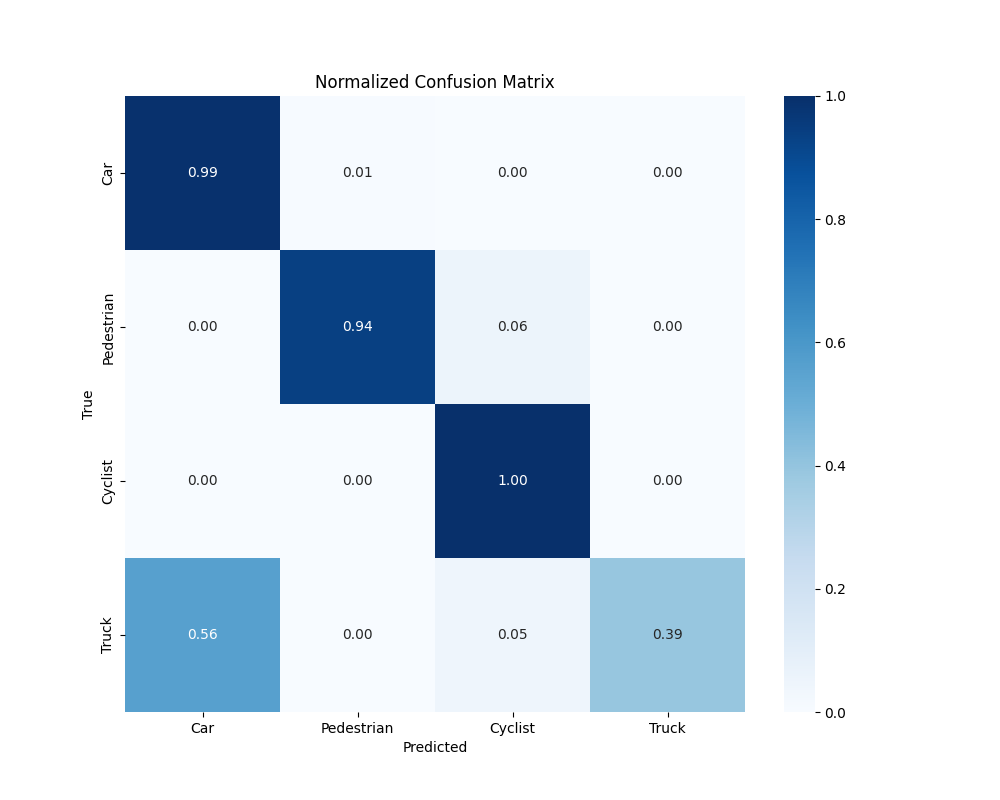
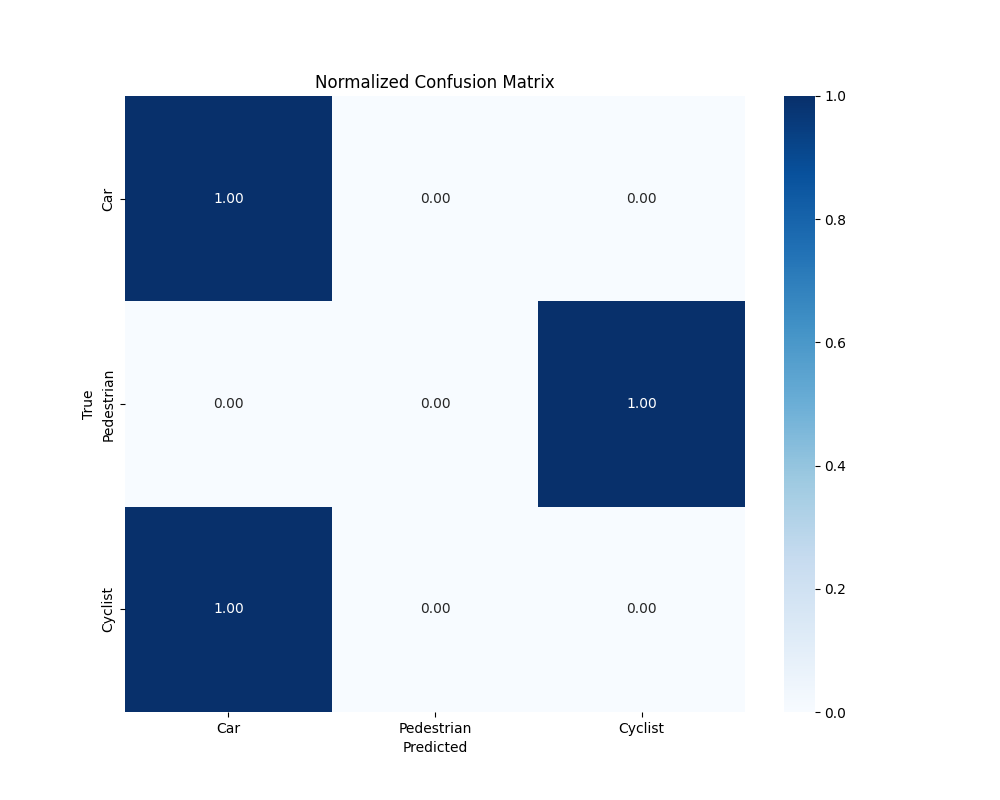
we can train without floor

diff --git a/lidar3d_detection_ws/train/models/evaluate.py b/lidar3d_detection_ws/train/models/evaluate.py
@@ -25,76 +25,95 @@ sys.path.append(parent_dir)
 # Import from our other modules
 from data_processing.preprocessing import load_config, read_bin_file, read_label_file, create_bev_image
 from data_processing.preproccesing_0 import convert_labels_to_yolo_format, PointCloudProcessor
+from data_processing.augmentation import create_range_adapted_bev_image
 
 def evaluate_model(model_path, bin_dir, label_dir, config_path, output_dir, conf_threshold=0.25, iou_threshold=0.5, max_samples=10):
     """
-    Evaluate a trained model on bin files
+    Evaluate a trained YOLO model on BEV images
     
     Args:
         model_path: Path to trained model weights
         bin_dir: Directory containing bin files
         label_dir: Directory containing label files
-        config_path: Path to config file
+        config_path: Path to preprocessing config file
         output_dir: Output directory for evaluation results
         conf_threshold: Confidence threshold for detections
-        iou_threshold: IoU threshold for NMS
-        max_samples: Maximum number of samples to evaluate and visualize
+        iou_threshold: IoU threshold for NMS and TP calculation
+        max_samples: Maximum number of samples to evaluate
         
     Returns:
-        Dictionary with evaluation metrics
+        Dictionary of evaluation metrics
     """
     print("\n===== EVALUATING MODEL =====")
-    print(f"Using model: {model_path}")
-    print(f"Using bin directory: {bin_dir}")
-    print(f"Using label directory: {label_dir}")
+    print(f"Model: {model_path}")
+    print(f"Bin directory: {bin_dir}")
+    print(f"Label directory: {label_dir}")
+    print(f"Config path: {config_path}")
+    print(f"Output directory: {output_dir}")
     print(f"Confidence threshold: {conf_threshold}")
+    print(f"IoU threshold: {iou_threshold}")
+    print(f"Max samples: {max_samples}")
     
     # Create output directories
     os.makedirs(output_dir, exist_ok=True)
-    visualization_dir = os.path.join(output_dir, "evaluation_visualization")
+    visualization_dir = os.path.join(output_dir, "visualization")
     os.makedirs(visualization_dir, exist_ok=True)
-    
-    # Initialize processor
-    processor = PointCloudProcessor(config_path=config_path)
     
     # Load model
     model = YOLO(model_path)
     
-    # Get all bin files
-    bin_files = sorted([f for f in os.listdir(bin_dir) if f.endswith('.bin')])
-    if not bin_files:
-        raise ValueError(f"No bin files found in {bin_dir}")
+    # Initialize processor
+    processor = PointCloudProcessor(config_path)
     
-    # Randomly select samples if there are more than max_samples
-    if len(bin_files) > max_samples:
-        bin_files = random.sample(bin_files, max_samples)
+    # Get list of bin files
+    bin_files = sorted([os.path.join(bin_dir, f) for f in os.listdir(bin_dir) if f.endswith('.bin')])
     
-    print(f"Evaluating on {len(bin_files)} samples")
+    # Limit number of samples if needed
+    if max_samples > 0:
+        bin_files = bin_files[:max_samples]
     
-    # Store class statistics
+    # Initialize statistics
     class_stats = defaultdict(lambda: {'TP': 0, 'FP': 0, 'FN': 0})
-    
-    # Lists to store IoU values for each class
-    class_ious = {class_name: [] for class_name in processor.class_names}
+    class_ious = defaultdict(list)
     
     # Process each bin file
-    for i, bin_filename in enumerate(tqdm(bin_files, desc="Evaluating")):
-        bin_file = os.path.join(bin_dir, bin_filename)
-        
-        # Get corresponding label file
-        label_name = os.path.splitext(bin_filename)[0] + ".txt"
-        label_file = os.path.join(label_dir, label_name)
-        
-        if not os.path.exists(label_file):
-            print(f"Warning: Label file {label_file} not found, skipping {bin_file}")
-            continue
-        
-        # Process the point cloud
+    for i, bin_file in enumerate(tqdm(bin_files, desc="Evaluating")):
         try:
-            # Process point cloud to get BEV image and YOLO labels
-            bev_image, yolo_labels_str = processor.process_point_cloud(
-                bin_file, label_file, None, None
-            )
+            # Get corresponding label file
+            base_name = os.path.splitext(os.path.basename(bin_file))[0]
+            label_file = os.path.join(label_dir, f"{base_name}.txt")
+            
+            if not os.path.exists(label_file):
+                print(f"Warning: Label file not found for {bin_file}, skipping")
+                continue
+            
+            # Read point cloud and labels
+            points = read_bin_file(bin_file)
+            labels = read_label_file(label_file)
+            
+            # Create clean BEV image (without boxes) for inference
+            bev_image = processor.create_bev_image(points)
+            
+            # Create YOLO format labels for ground truth
+            yolo_labels = []
+            yolo_labels_str = []
+            
+            for obj in labels:
+                if obj['type'] == 'DontCare':
+                    continue
+                
+                # Transform 3D box to BEV
+                corners_bev, center_bev = processor.transform_3d_box_to_bev(
+                    obj['dimensions'], obj['location'], obj['rotation_y']
+                )
+                
+                # Create YOLO label
+                yolo_label_str = processor.create_yolo_label(
+                    corners_bev, obj['type'], bev_image.shape[:2]
+                )
+                
+                if yolo_label_str:
+                    yolo_labels_str.append(yolo_label_str)
             
             # Skip if no labels
             if not yolo_labels_str:
@@ -126,7 +145,7 @@ def evaluate_model(model_path, bin_dir, label_dir, config_path, output_dir, conf
                     gt_boxes.append([x1, y1, x2, y2])
                     gt_classes.append(int(class_id))
             
-            # Run inference
+            # Run inference on the clean BEV image
             results = model.predict(bev_image, conf=conf_threshold, iou=iou_threshold)[0]
             
             # Extract predictions
@@ -188,8 +207,10 @@ def evaluate_model(model_path, bin_dir, label_dir, config_path, output_dir, conf
             
             # Create visualization for the first 3 samples
             if i < 3:
-                # Create ground truth image
+                # Create a copy of the clean BEV image for ground truth visualization
                 gt_img = bev_image.copy()
+                
+                # Draw ground truth boxes
                 for gt_box, gt_cls in zip(gt_boxes, gt_classes):
                     x1, y1, x2, y2 = map(int, gt_box)
                     color = processor.colors[processor.class_names[gt_cls]]
@@ -346,28 +367,26 @@ def calculate_iou(box1, box2):
         box2: [x1, y1, x2, y2]
         
     Returns:
-        IoU value
+        IoU score
     """
-    # Get coordinates of intersection
-    x1_inter = max(box1[0], box2[0])
-    y1_inter = max(box1[1], box2[1])
-    x2_inter = min(box1[2], box2[2])
-    y2_inter = min(box1[3], box2[3])
+    # Calculate intersection area
+    x_left = max(box1[0], box2[0])
+    y_top = max(box1[1], box2[1])
+    x_right = min(box1[2], box2[2])
+    y_bottom = min(box1[3], box2[3])
     
-    # Calculate area of intersection
-    width_inter = max(0, x2_inter - x1_inter)
-    height_inter = max(0, y2_inter - y1_inter)
-    area_inter = width_inter * height_inter
+    if x_right < x_left or y_bottom < y_top:
+        return 0.0
     
-    # Calculate area of both boxes
-    area_box1 = (box1[2] - box1[0]) * (box1[3] - box1[1])
-    area_box2 = (box2[2] - box2[0]) * (box2[3] - box2[1])
+    intersection_area = (x_right - x_left) * (y_bottom - y_top)
     
-    # Calculate area of union
-    area_union = area_box1 + area_box2 - area_inter
+    # Calculate union area
+    box1_area = (box1[2] - box1[0]) * (box1[3] - box1[1])
+    box2_area = (box2[2] - box2[0]) * (box2[3] - box2[1])
+    union_area = box1_area + box2_area - intersection_area
     
     # Calculate IoU
-    iou = area_inter / area_union if area_union > 0 else 0
+    iou = intersection_area / union_area if union_area > 0 else 0
     
     return iou
 

diff --git a/lidar3d_detection_ws/train/data_processing/preproccesing_0.py b/lidar3d_detection_ws/train/data_processing/preproccesing_0.py
@@ -211,8 +211,20 @@ class PointCloudProcessor:
         # Create a colored height map for better visualization
         height_map = np.zeros((self.y_max + 1, self.x_max + 1, 3), dtype=np.uint8)
         
-        # Assign different colors based on height
+        # Define floor height range (-0.5m to 0.3m)
+        floor_min_height = -2.0
+        floor_max_height = 0.3
+        
+        # Calculate which height slices correspond to the floor
+        floor_min_idx = max(0, int((floor_min_height - self.height_range[0]) / self.z_resolution))
+        floor_max_idx = min(self.z_max, int((floor_max_height - self.height_range[0]) / self.z_resolution))
+        
+        # Assign different colors based on height, but make floor points black
         for i in range(self.z_max):
+            # Skip floor points - they will remain black (0,0,0)
+            if i >= floor_min_idx and i <= floor_max_idx:
+                continue
+            
             # Create a color gradient from blue (lower) to red (higher)
             b = max(0, 255 - (i * 255 // self.z_max))
             r = min(255, i * 255 // self.z_max)
@@ -222,8 +234,8 @@ class PointCloudProcessor:
             height_map[mask, 0] = r
             height_map[mask, 1] = g
             height_map[mask, 2] = b
-            
-        # Use intensity for empty cells
+        
+        # Use intensity for empty cells (cells without any points)
         empty = np.sum(bev_image[:, :, :-1], axis=2) == 0
         intensity_map = (bev_image[:, :, -1] * 255).astype(np.uint8)
         height_map[empty, 0] = intensity_map[empty]

diff --git a/lidar3d_detection_ws/train/data_processing/augmentation.py b/lidar3d_detection_ws/train/data_processing/augmentation.py
@@ -536,8 +536,20 @@ class RangeSpecificProcessor:
         # Create a colored height map for better visualization
         height_map = np.zeros((self.x_max + 1, self.y_max + 1, 3), dtype=np.uint8)
         
-        # Assign different colors based on height
+        # Define floor height range (-0.5m to 0.3m)
+        floor_min_height = -2.0
+        floor_max_height = 0.3
+        
+        # Calculate which height slices correspond to the floor
+        floor_min_idx = max(0, int((floor_min_height - self.height_range[0]) / self.z_resolution))
+        floor_max_idx = min(self.z_max, int((floor_max_height - self.height_range[0]) / self.z_resolution))
+        
+        # Assign different colors based on height, but make floor points black
         for i in range(self.z_max):
+            # Skip floor points - they will remain black (0,0,0)
+            if i >= floor_min_idx and i <= floor_max_idx:
+                continue
+            
             # Create a color gradient from blue (lower) to red (higher)
             b = max(0, 255 - (i * 255 // self.z_max))
             r = min(255, i * 255 // self.z_max)
